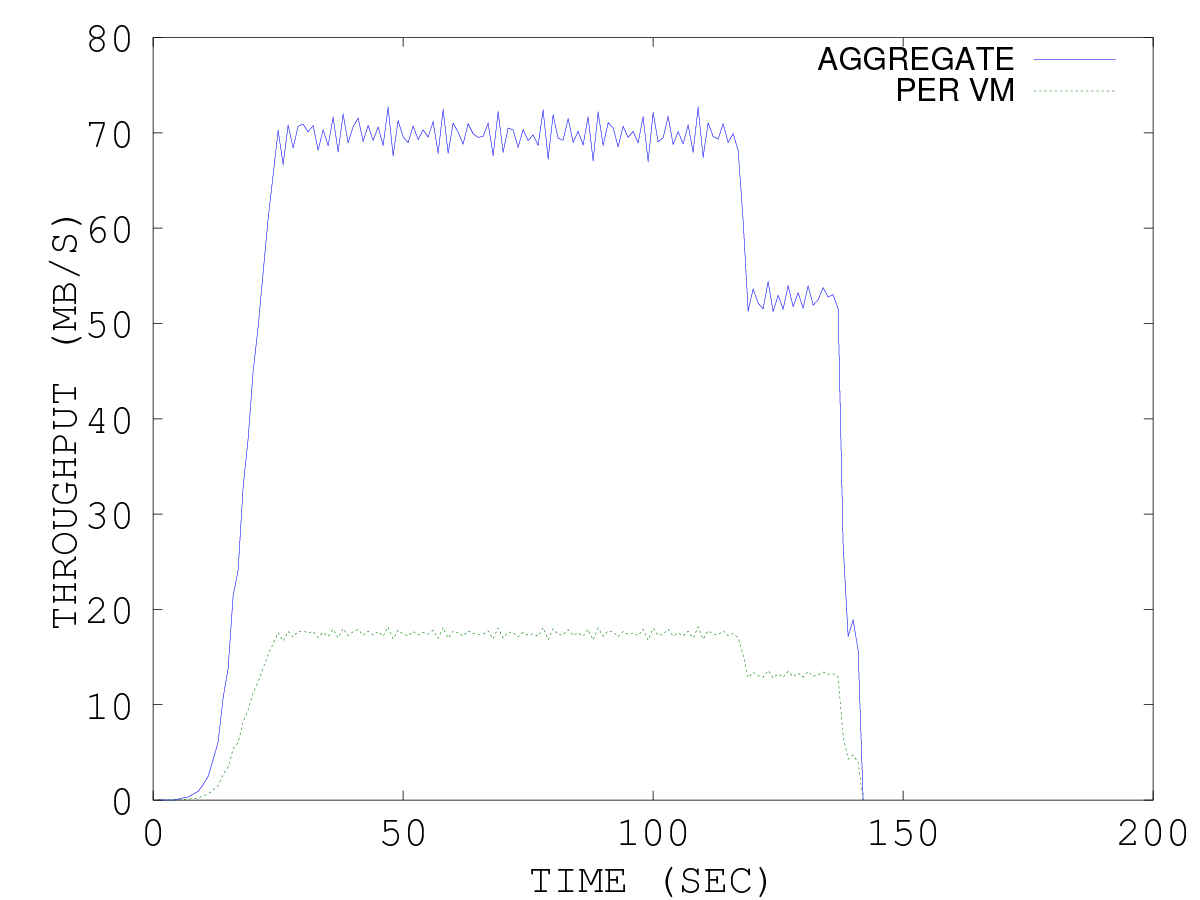
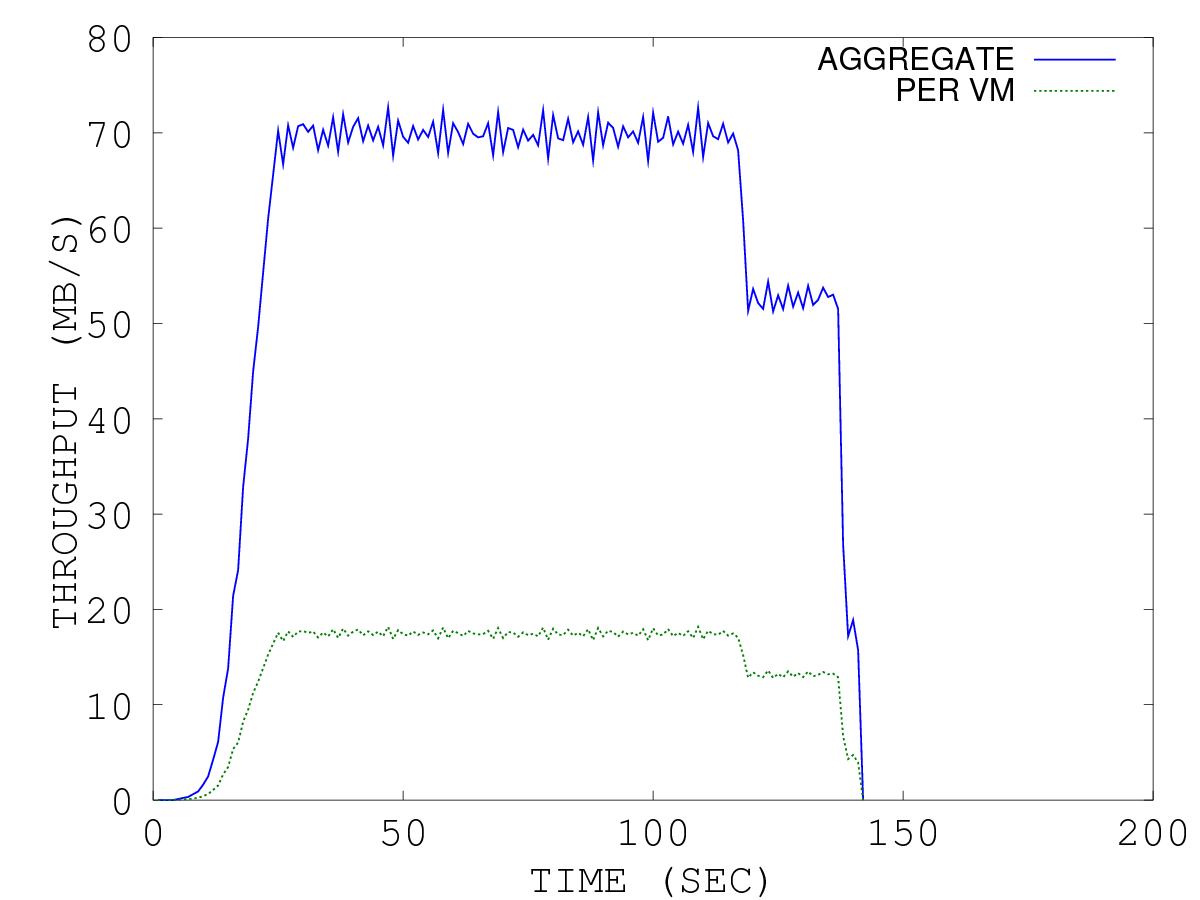
all

diff --git a/plot/plotnet.m b/plot/plotnet.m
@@ -95,8 +95,8 @@ set(yh,'position',[p(1)+5 p(2)])
 set(gca,'FontSize',fontsize)
 set(findall(gcf,'type','text'),'FontSize',fontsize)
 
-%set(pl(1), 'LineWidth', linewidth);
-%set(pl(2), 'LineWidth', linewidth);
+set(pl(1), 'LineWidth', linewidth);
+set(pl(2), 'LineWidth', linewidth);
  
 %ylabh = get(gca,'YLabel');
 %set(ylabh, 'Units', 'Normalized', 'Position', [-0.1, 0.5, 0]);
